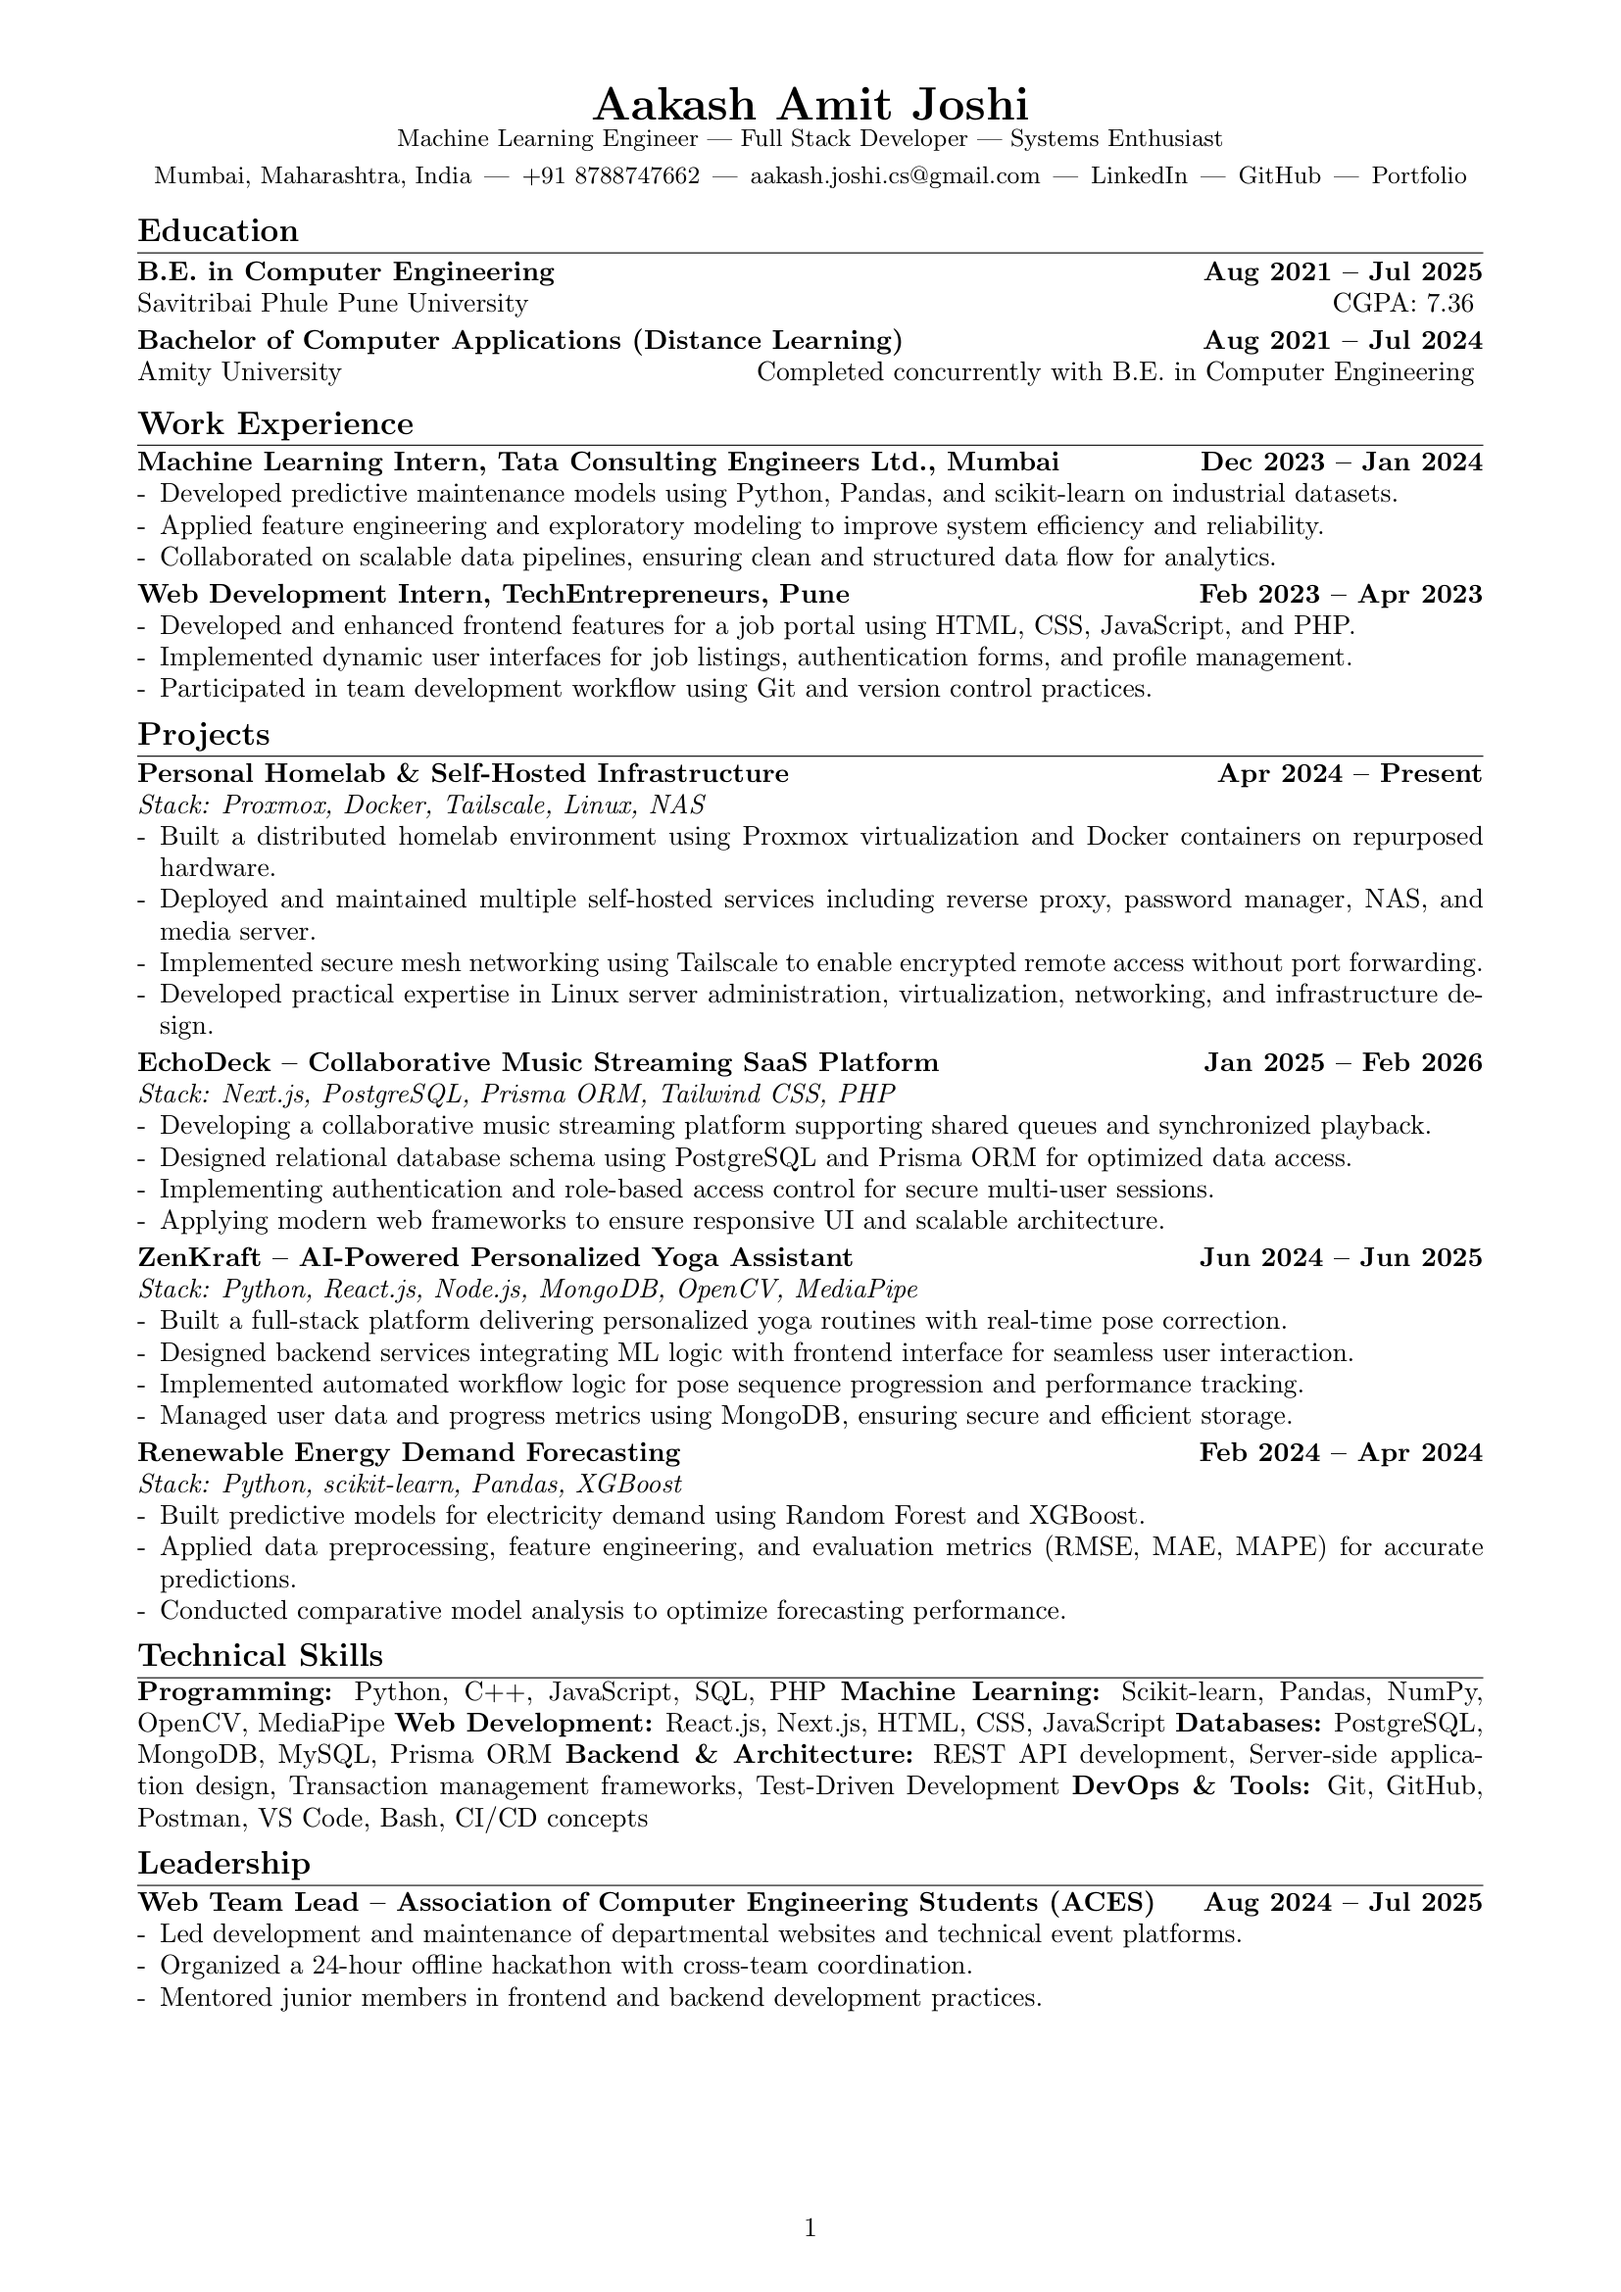
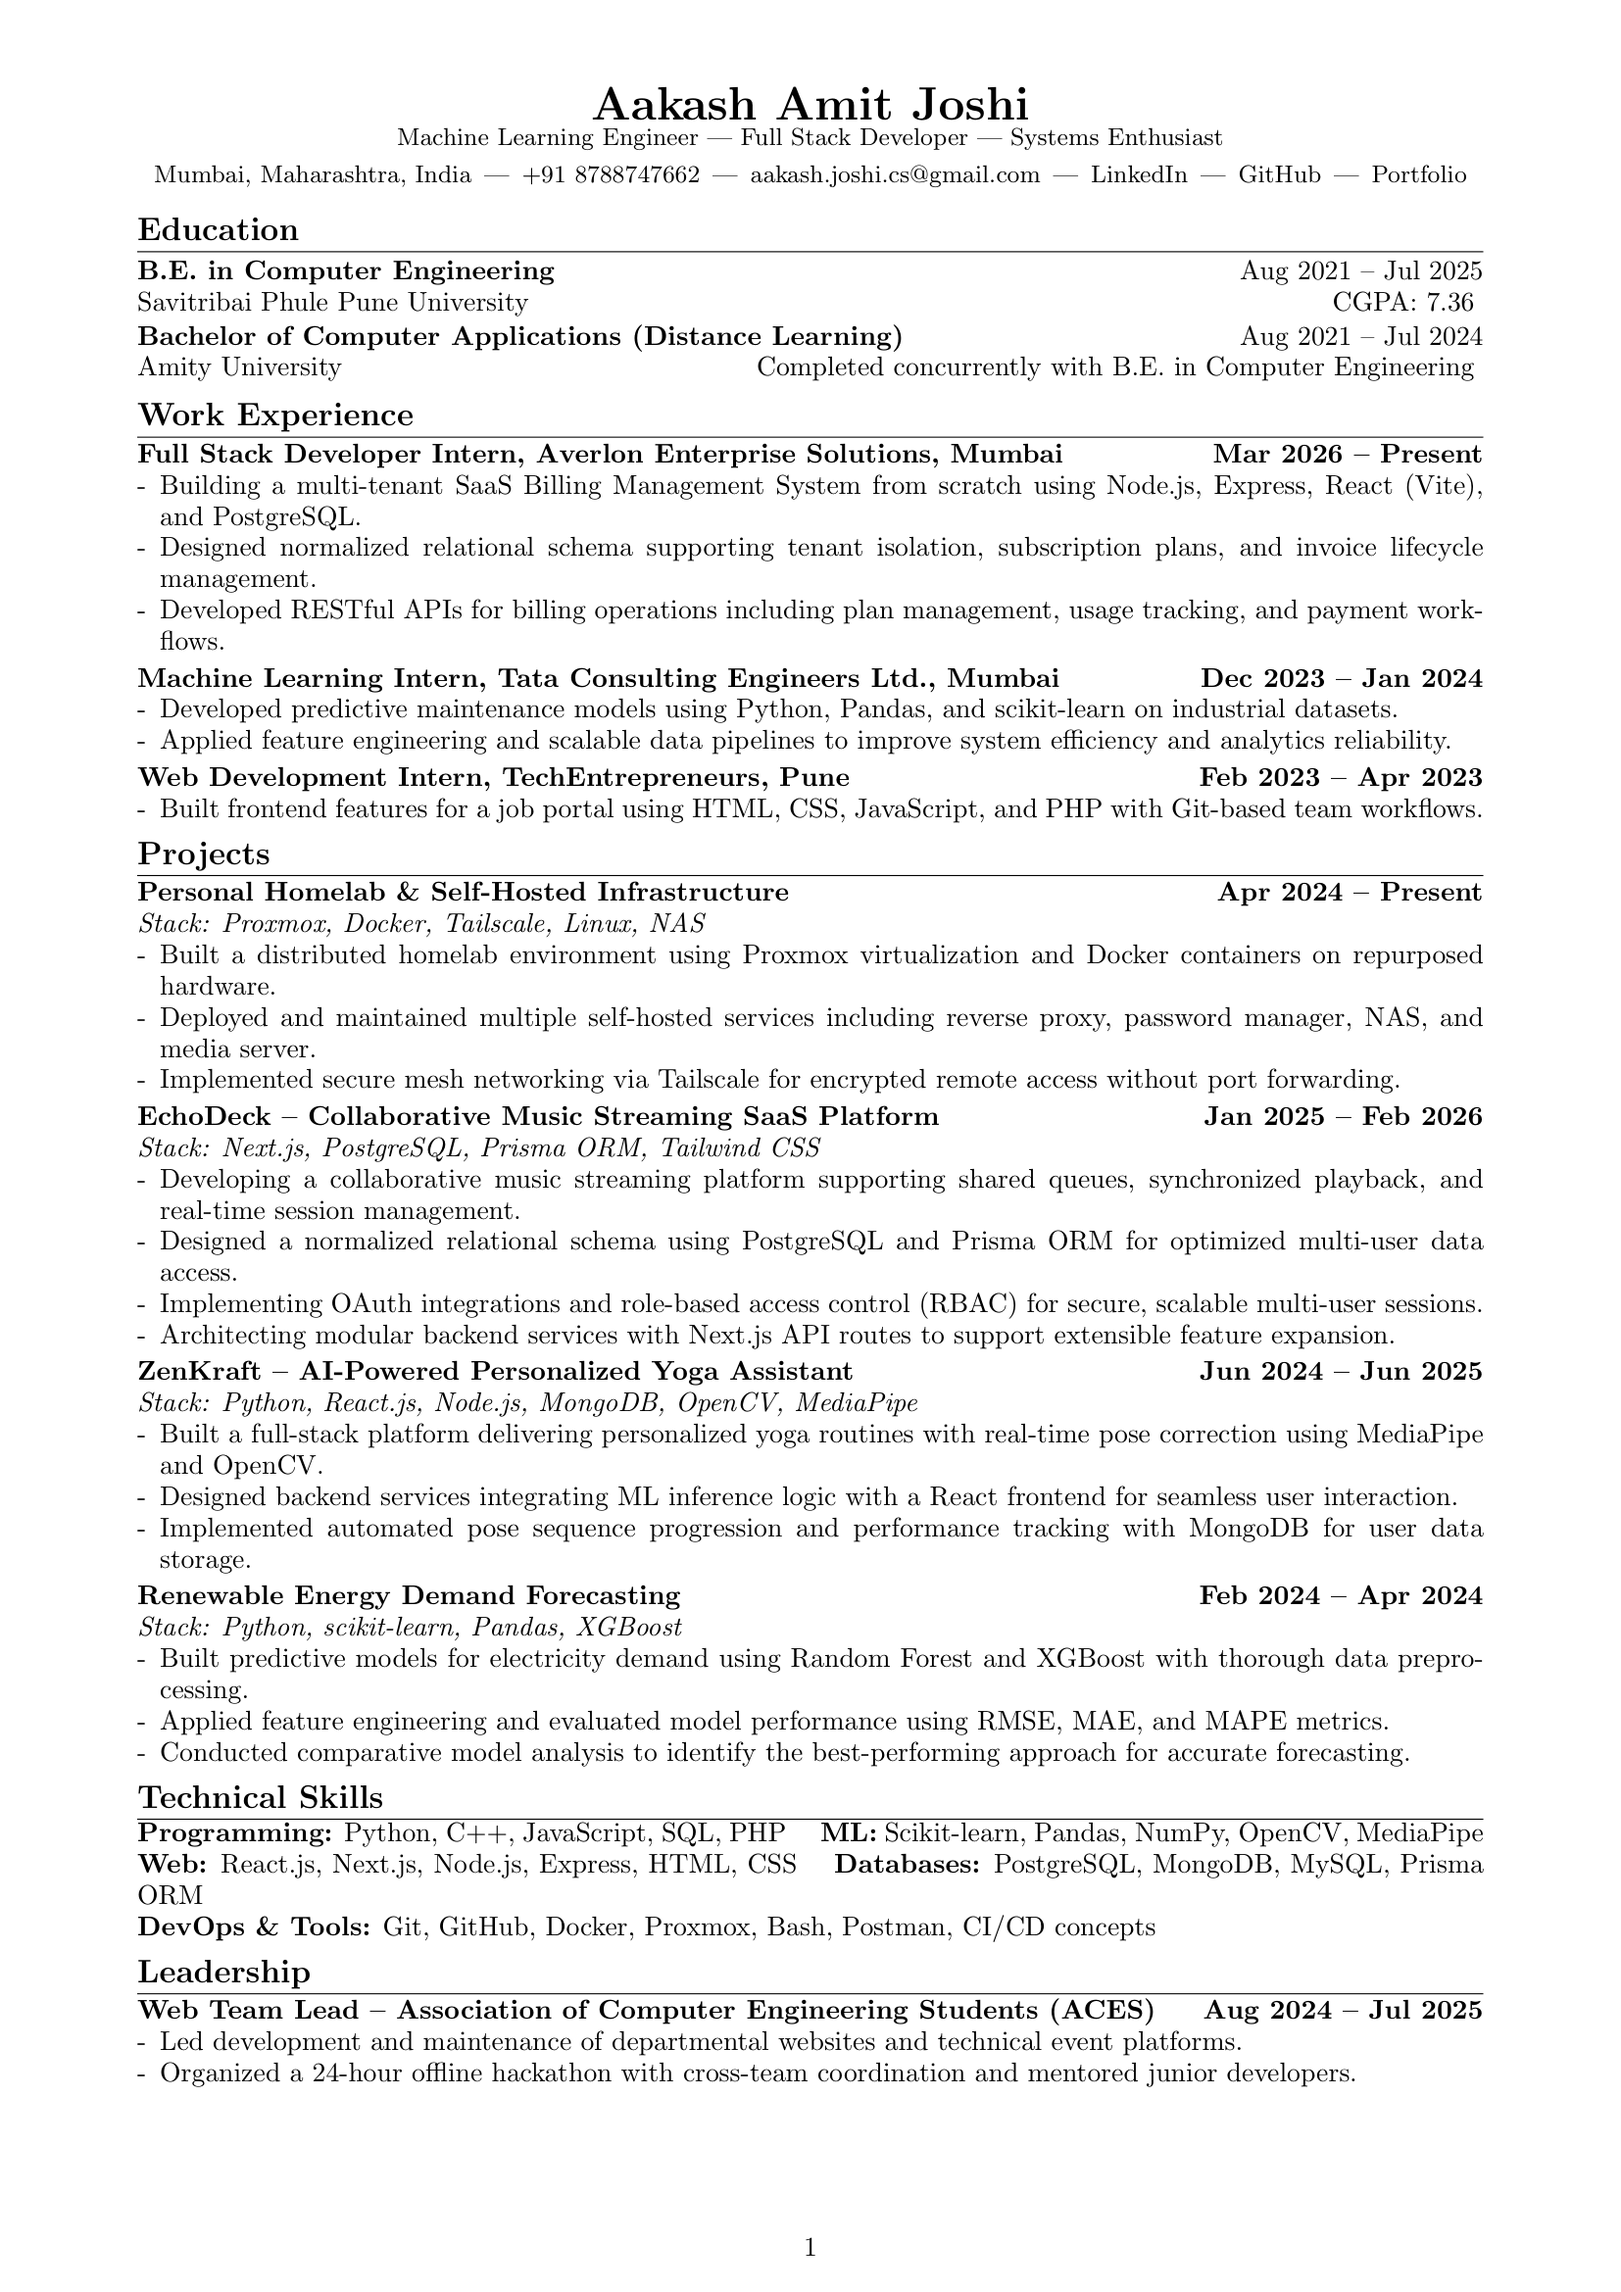
Added Averlon Internship Experience

diff --git a/lib/data.ts b/lib/data.ts
@@ -241,9 +241,9 @@ export const EXPERIENCE = [
         year: "March 2026 - Present",
         logo: "/logos/averlon.png",
         points: [
-            "Contributing to the development of a core billing management system.",
-            "Working on full-stack features using modern web technologies.",
-            "Collaborating with senior engineers to implement scalable architecture."
+            "Building a multi-tenant SaaS Billing Management System from scratch using Node.js, Express, React (Vite), and PostgreSQL.",
+            "Designed normalized relational schema supporting tenant isolation, subscription plans, and invoice lifecycle management.",
+            "Developed RESTful APIs for billing operations including plan management, usage tracking, and payment workflows."
         ]
     },
     {
